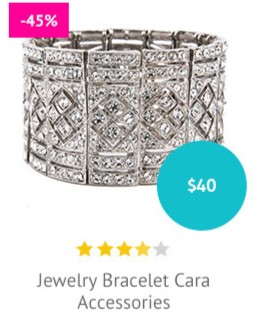
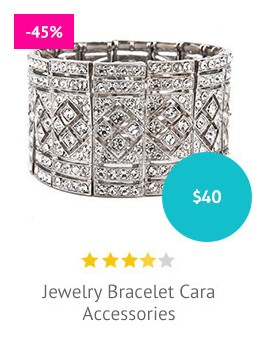
addded welcome section, bestseller section

diff --git a/index.html b/index.html
@@ -43,7 +43,7 @@
                     </div>
                     
                     <div class="col-8 col-md-4">
-                        <p class="welcome text-end">
+                        <p class="welcome-login text-end">
                             welcome visitor you can <a href="#">login</a> or <a href="#">create an account.</a>
                         </p>
                     </div>
@@ -114,7 +114,7 @@
     <main class="main">
         <section class="section" id="banner">
             <div class="banner-img">
-                <img src="images/hero.jpg" alt="banner" class="img-fluid">
+                <img src="images/hero.jpg" alt="banner" class="img-fluid w-100">
             </div>
         </section>
         <section class="section" id="promoinfo">
@@ -151,36 +151,59 @@
                 <div class="row">
                     <div class="col">
                         <div class="card-group group">
-                            <div class="card">
+                            <div class="card border-0 ">
                                 <img src="images/card1.jpg" class="card-img-top" alt="...">
-
-                                    <button type="button" class="btn text-capitalize">add to cart</button>
+                                <button type="button" class="btn text-capitalize cart-btn align-self-center">add to cart</button>
                             </div>
-                            <div class="card">
+                            <div class="card border-0">
                                 <img src="images/card2.jpg" class="card-img-top" alt="...">
-                                <button type="button" class="btn text-capitalize">add to cart</button>
+                                <button type="button" class="btn text-capitalize cart-btn align-self-center">add to cart</button>
                             </div>
-                            <div class="card">
+                            <div class="card border-0">
                                 <img src="images/card3.jpg" class="card-img-top" alt="...">
-                                <div class="card-body">
-                                    <h5 class="card-title">Card title</h5>
-                                    <p class="card-text">This is a wider card with supporting text below as a natural lead-in to additional content. This card has even longer content than the first to show that equal height action.</p>
-                                    <p class="card-text"><small class="text-body-secondary">Last updated 3 mins ago</small></p>
-                                </div>
+                                <button type="button" class="btn text-capitalize cart-btn align-self-center">add to cart</button>
                             </div>
-                            <div class="card">
+                            <div class="card border-0">
                                 <img src="images/card4.jpg" class="card-img-top" alt="...">
-                                <div class="card-body">
-                                    <h5 class="card-title">Card title</h5>
-                                    <p class="card-text">This is a wider card with supporting text below as a natural lead-in to additional content. This content is a little bit longer.</p>
-                                    <p class="card-text"><small class="text-body-secondary">Last updated 3 mins ago</small></p>
-                                </div>
+                                <button type="button" class="btn text-capitalize cart-btn align-self-center">add to cart</button>
                             </div>
                         </div>
                     </div>
                 </div>
             </div>
 
+        </section>
+
+        <section class="section" id="welcome">
+            <div class="container">
+                <div class="row">
+                    <div class="col">
+                        <h2 class="welcome-head"><span>welcome</span> to <span>venedor</span></h2>
+                        <p class="welcome-text">Lorem ipsum dolor sit amet consectetur adipisicing elit. Neque cum provident omnis sint, placeat similique nihil vero ex totam dolores aut vitae reprehenderit saepe magni veritatis aliquam quam? Blanditiis vero, odio atque consequatur eum porro?</p>
+                        <p class="welcome-text">Lorem ipsum dolor sit amet consectetur adipisicing elit. Dolorum possimus consequuntur rerum minus amet eligendi adipisci quis dolores totam doloremque, nobis nihil blanditiis labore animi. Earum consequuntur nihil sapiente voluptatem nobis possimus illo at? Enim quidem quia fugiat molestiae repudiandae? Dolore harum officiis quasi eaque accusamus! </p>
+                        <span class="buy d-block"><a href="#">Buy Venedor Theme</a></span>
+                    </div>
+                    <div class="col">
+                        <img src="images/electronics.jpg" alt="electronics with venedor products">
+                    </div>
+                </div>
+            </div>
+        </section>
+
+        <section class="section" id="bestsellers">
+            <div class="container">
+                <div class="row justify-content-between">
+                    <div class="h2 col">
+                            <h2 class="h2 bestseller vc_text_separator wpb_content_element separator_align_2_left  page-title entry-title text-capitalize"><span class="best">bestsellers</span></h2>
+                    </div>
+                    <div class="arrows col-2 text-end">
+                            <div class="btn back-arrow"><</div>
+                            <div class="btn forward-arrow">></div>
+                        </div>
+                    </div>
+                    <p class="latest-text">Special offers and biggest discounts for the most popular products.</p>
+                </div>
+            </div>
         </section>
     </main>
     <footer class="footer"></footer>

diff --git a/css/style.css b/css/style.css
@@ -11,7 +11,8 @@
     --fashion: #13c6c2;
 }
 
-.list-item, .welcome{
+
+.list-item, .welcome-login{
     font-size: 12px;
 }
 
@@ -71,8 +72,8 @@ h1{
     background-color: var(--cart);
 }
 
-.welcome{
-    /* border: 1px solid orange; */
+span{
+    text-transform: capitalize;
 }
 
 p {
@@ -124,7 +125,24 @@ a {
 [class*=separator_align_] > span:after {
     content: "";
     position: absolute;
-    left: 90px;
+    left: 100px;
+    height: .4em; /*offset between lines*/
+    border-bottom: 1px solid #999;
+    /* border-top: 1px solid #000; */
+    top: .4em;
+    
+    /*background: rgba(#fff, .3);*/
+    
+    /* set way wider than it needs to be.
+     * It will be cutoff
+    **/
+    width: 920px;
+    
+}
+[class*=separator_align_2] > span:after {
+    content: "";
+    position: absolute;
+    left: 100px;
     height: .4em; /*offset between lines*/
     border-bottom: 1px solid #999;
     /* border-top: 1px solid #000; */
@@ -139,10 +157,16 @@ a {
     
 }
 
-.latest{
+
+
+.latest, .welcome-head, .bestseller{
     margin: 0;
     padding-left: 5px;
-    border-left: 2px solid var(--fashion);
+    border-left: 4px solid var(--fashion);
+}
+
+.best{
+    padding-right: 10px;
 }
 
 .latest-text{
@@ -151,4 +175,18 @@ a {
 
 .group{
     margin-top: 30px;
+    margin-bottom: 60px;
 }
+
+.cart-btn{
+    width: 50%;
+    color: white;
+    /* box-shadow: 0 -1px black; */
+    background-color: #555;
+    border-top-color: 1px solid #777;
+}
+.welcome-text{
+    margin: 0;
+    padding: 0;
+    text-indent: 30px;
+} 
